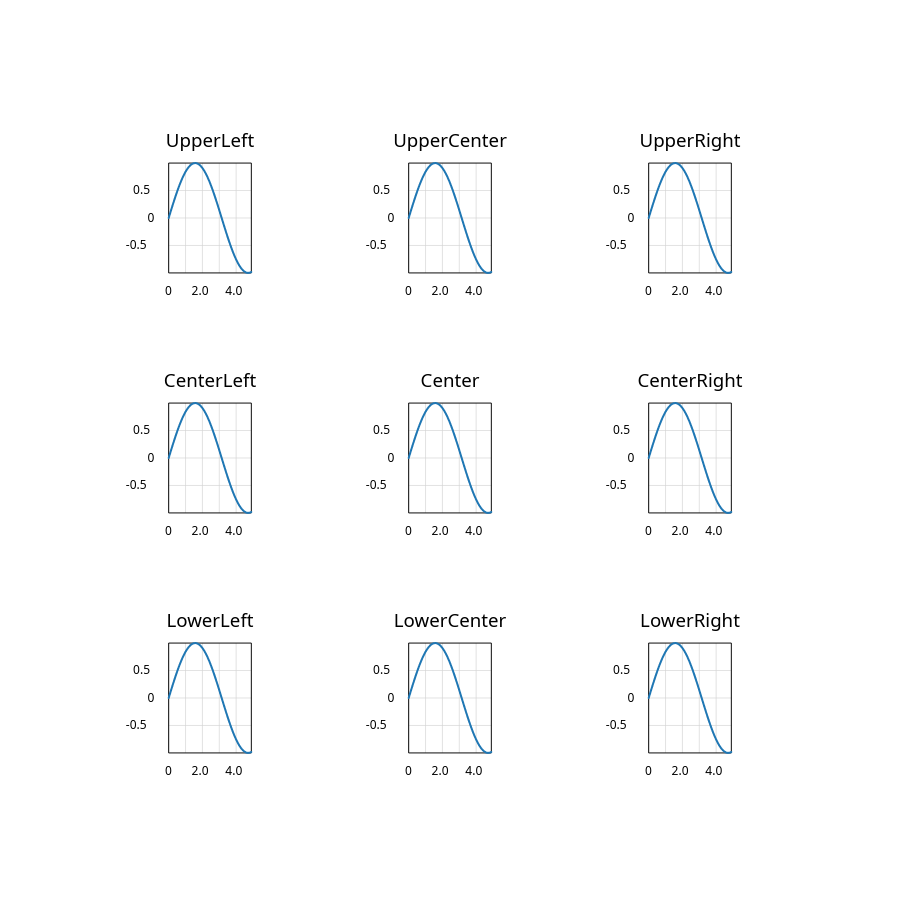
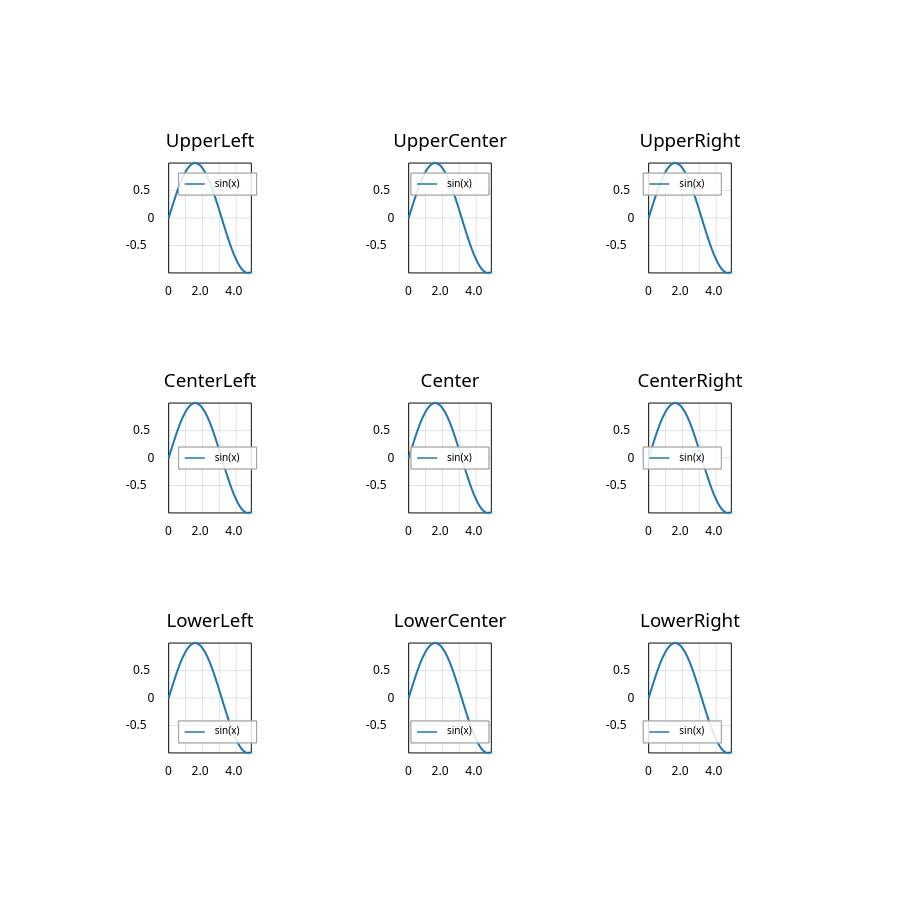
Fix legends not rendering in subplots
The render_to_renderer() method (used by SubplotFigure) was missing
legend rendering logic. This caused all legends to be invisible when
plots were rendered as part of a subplot grid.

Added legend collection and rendering to render_to_renderer():
- Collect LegendItem from labeled series
- Support for LegendPosition::Best with data bbox calculation
- Call draw_legend_full() when legend is enabled

This fixes the legend_positions and subplots gallery images which
previously showed no legends despite legend_position() being set.

diff --git a/src/core/plot/mod.rs b/src/core/plot/mod.rs
@@ -3317,6 +3317,59 @@ impl Plot {
             )?;
         }
 
+        // Collect legend items from series with labels
+        let legend_items: Vec<LegendItem> = self
+            .series
+            .iter()
+            .enumerate()
+            .filter_map(|(idx, series)| {
+                let default_color = self.theme.get_color(idx);
+                series.to_legend_item(default_color, &self.theme)
+            })
+            .collect();
+
+        // Draw legend if there are labeled series and legend is enabled
+        if !legend_items.is_empty() && self.legend.enabled {
+            let legend = self.legend.to_legend();
+
+            // Collect data bounding boxes for best position algorithm
+            let data_bboxes: Vec<(f32, f32, f32, f32)> = if matches!(legend.position, LegendPosition::Best) {
+                let marker_radius = 4.0_f32;
+                self.series
+                    .iter()
+                    .flat_map(|series| {
+                        match &series.series_type {
+                            SeriesType::Line { x_data, y_data }
+                            | SeriesType::Scatter { x_data, y_data } => {
+                                x_data.iter().zip(y_data.iter()).filter_map(|(&x, &y)| {
+                                    if x.is_finite() && y.is_finite() {
+                                        let (px, py) = map_data_to_pixels(
+                                            x, y, x_min, x_max, y_min, y_max, plot_area,
+                                        );
+                                        Some((px - marker_radius, py - marker_radius,
+                                             px + marker_radius, py + marker_radius))
+                                    } else {
+                                        None
+                                    }
+                                }).collect::<Vec<_>>()
+                            }
+                            _ => vec![],
+                        }
+                    })
+                    .collect()
+            } else {
+                vec![]
+            };
+
+            let bbox_slice: Option<&[(f32, f32, f32, f32)]> = if data_bboxes.is_empty() {
+                None
+            } else {
+                Some(&data_bboxes)
+            };
+
+            renderer.draw_legend_full(&legend_items, &legend, plot_area, bbox_slice)?;
+        }
+
         Ok(())
     }
 
